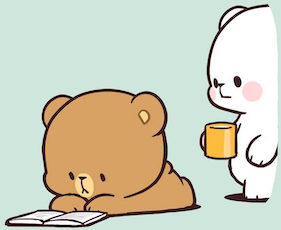
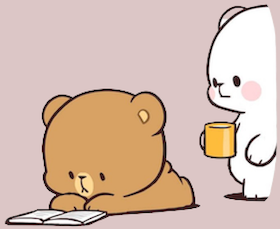
color scheme updates

diff --git a/Fullstack/project/client/src/styles/Note.css b/Fullstack/project/client/src/styles/Note.css
@@ -1,6 +1,6 @@
 
 header{
-    background-color: #CFE6DD;
+    background-color: #DBC6C5;
     display: flex;
     justify-content: space-between;
     border: 3px solid #351516;
@@ -16,19 +16,30 @@ h7{
     padding: 5px;
 } 
 
+.welcome-message{
+    font-weight: bolder;
+    font-size: larger;
+}
+
 .links{
     padding: 5px;
 }
 
 .logout-button{
+    color: #7f4510;
+    font-weight: bolder;
     font-family: 'Cutive Mono', monospace;
     padding: 3px;
     margin-left: 10px;
     height: 30px;
-    background-color: #CFE6DD;
     border-style: none;
     transition: 350ms;
     margin-top: 10px;
+    background: transparent;
+}
+
+.logout-button:hover{
+    filter: drop-shadow(0.5rem 0 0.95rem rgb(255, 255, 255));
 }
 
 .notes-container{
@@ -68,8 +79,7 @@ h7{
 .note{
     white-space: pre-wrap;
     background-color: #F9DE87;
-    background: linear-gradient(#ffffff,#ecebec);
-    /* background-image: url("../src/images/note-background.png"); */
+    /* background: linear-gradient(#ffffff,#847c31); */
     border-radius: 10px;
     padding: 1rem;
     min-height: 170px;
@@ -98,11 +108,11 @@ mark{
 
 .note.new{
     background: none;
-    background-color: #ffd7db;
+    background-color: #D8A263;
 }
 
 textarea{
-    background-color: #ffd7db;
+    background-color: #D8A263;
     border: none;
     resize: none;
 }
@@ -113,11 +123,12 @@ textarea:focus{
 
 .save{
     font-family: 'Cutive Mono', monospace;
-    background-color: #ffffff;
+    background-color: white;
     border: none;
     border-radius: 15px;
     padding: 5px 10px 5px 10px;
     transition: 350ms;
+    font-weight: bolder;
 }
 
 .save:hover{

diff --git a/Fullstack/project/client/src/styles/LoginRegistration.css b/Fullstack/project/client/src/styles/LoginRegistration.css
@@ -25,14 +25,14 @@ h1{
     text-align: center;
     font-size: 80px;
     font-family: 'Pacifico', cursive;
-    -webkit-text-stroke: 3px rgb(151, 120, 134);
+    -webkit-text-stroke: 3px rgb(207, 171, 103);
     filter: drop-shadow(0.5rem 0 0.95rem rgb(255, 255, 255));
     color: white;
 }
 
 
 .login-reg-box {
-    background: linear-gradient(transparent, rgb(190, 168, 183),rgb(212, 174, 174),rgb(230, 176, 176));
+    background: linear-gradient(transparent, rgb(219, 160, 170),#DBC6C5, rgb(190, 162, 150), rgb(230, 198, 139));
     border: 5px solid #351516;
     padding: 10px;
     min-width: fit-content;
@@ -99,7 +99,7 @@ p{
 }
 
 terms{
-    color: #3f6e49;
+    color: #7f4510;
     text-decoration: underline;
 }
 
@@ -108,7 +108,8 @@ terms{
     border-style: none;
     background-color: #F9DE87;
     font-family: 'Cutive Mono', monospace;
-    padding: 5px;
+    padding: 5px 10px 5px 10px;
+    border-radius: 15px;
     transition: 350ms;
 }
 
@@ -118,7 +119,7 @@ terms{
 }
 
 footer{
-    /* font-family: 'Pacifico', cursive; */
+    margin-top: 5px;
     font-size: 10px;
     text-align: center;
 }

diff --git a/Fullstack/project/client/src/views/Dashboard.js b/Fullstack/project/client/src/views/Dashboard.js
@@ -58,7 +58,9 @@ const Dashboard = (props) => {
 
                     <div className="links" > 
 
-                        Welcome, {user.username} <br></br>
+                        <div className="welcome-message"> 
+                            Welcome, {user.username} 
+                        </div>
 
                         <button className="logout-button"> Doodle Time! </button>
                         <button onClick ={logout} className="logout-button"> Logout </button>
